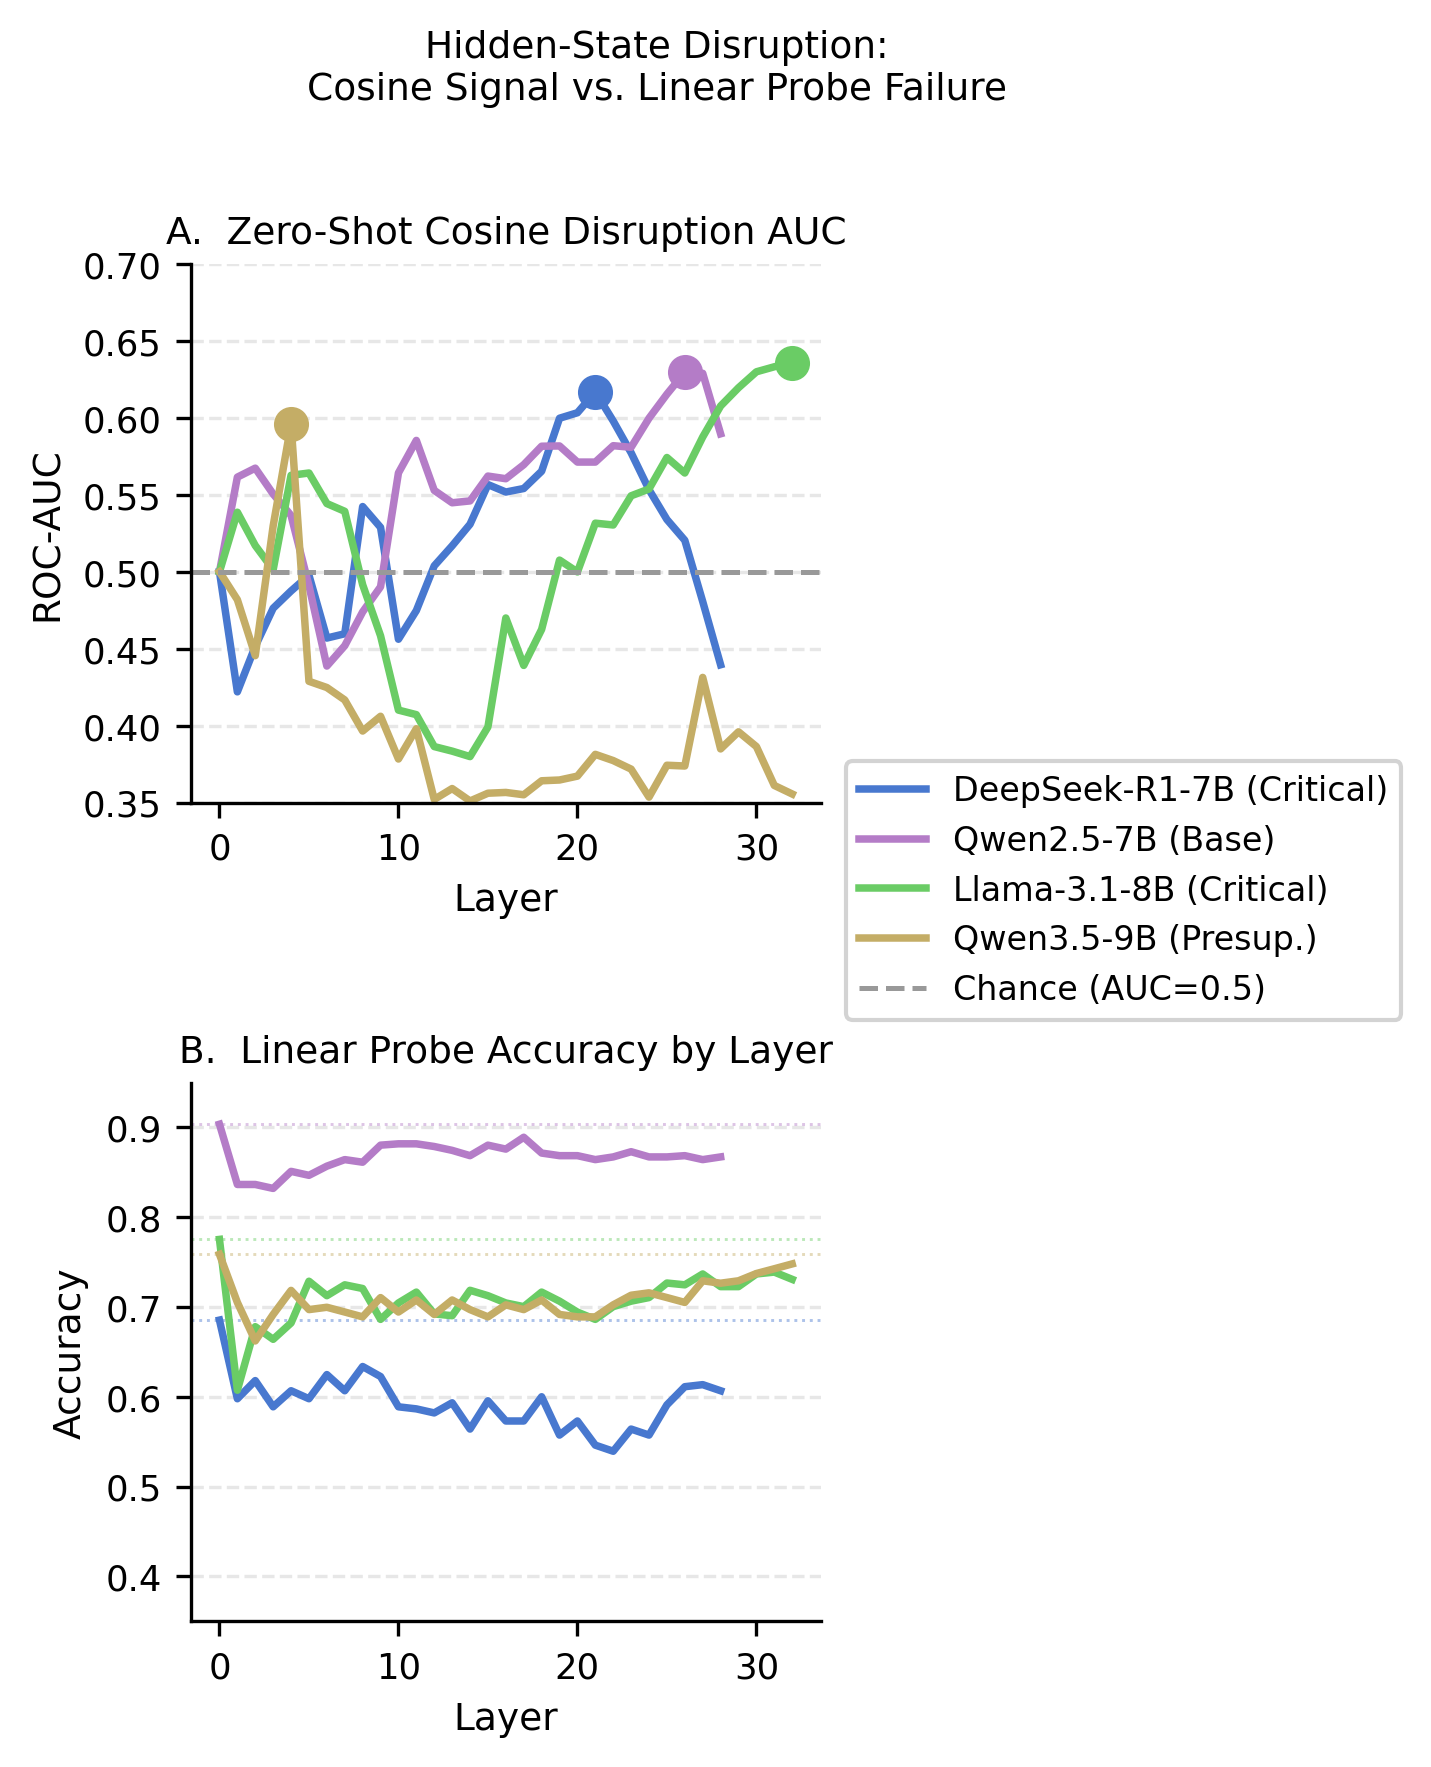
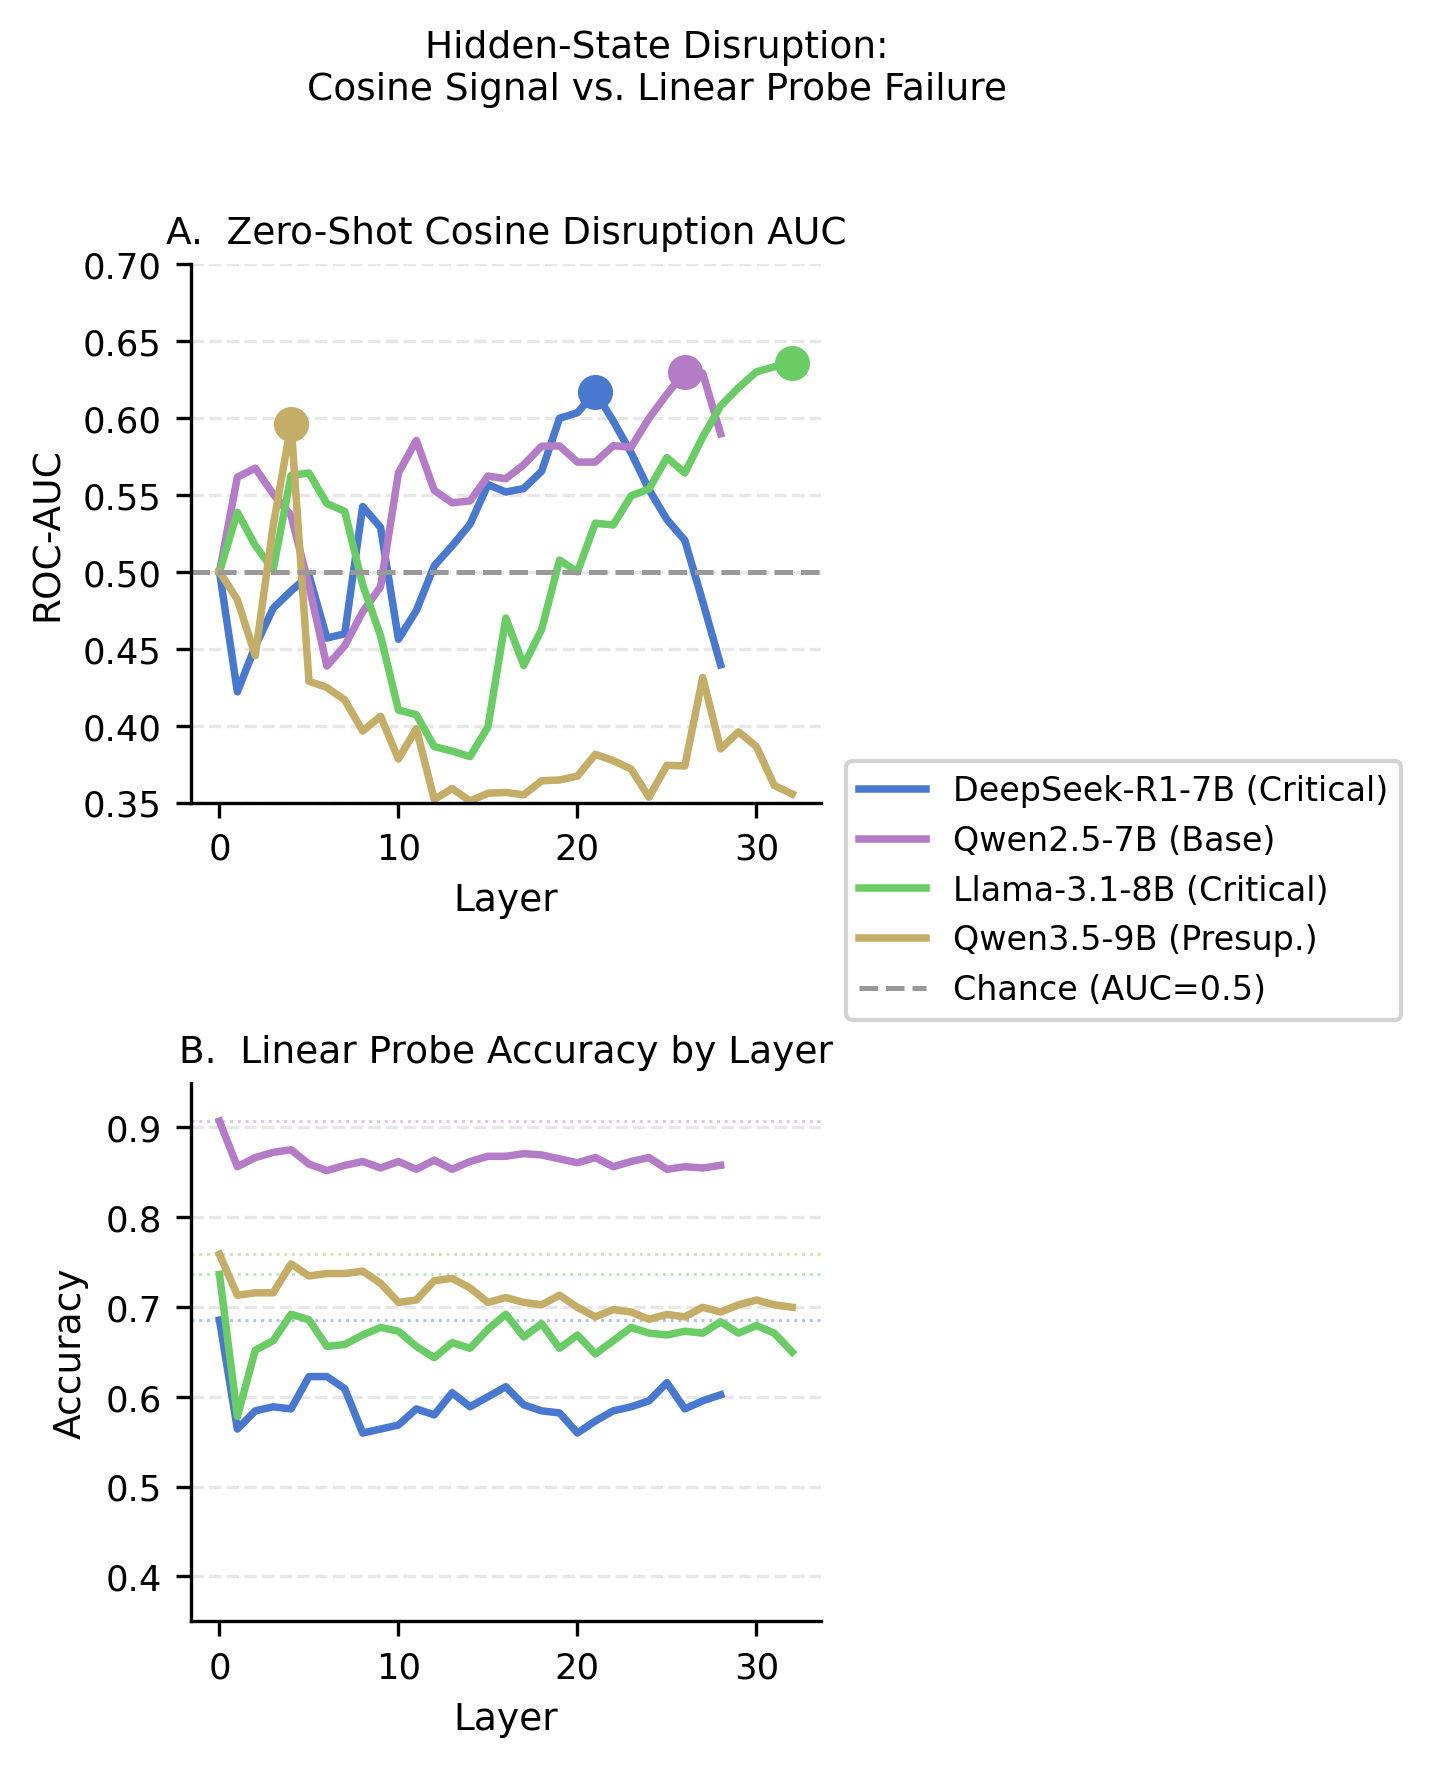
Fix pre-flip task pairing in PCA and layer-sweep figures, align Panel B conditions with Panel A
- plot_preflip_pca.py and plot_layer_sweep.py paired the hidden state at
  turn t with the flip label at turn t (at-flip states); both now use the
  probe semantics from train_probes_v2 (state at t predicts flip at t+1,
  censored after first flip)
- plot_layer_sweep.py BEST_QTYPE now matches the cosine analysis so both
  panels of hidden_state_disruption.png describe the same conditions
- multiturn_auc_robustness.py: remove 0.5 floor on peak AUC so below-chance
  peaks report honestly
- Regenerate preflip_pca.png, layer_sweep(.png/_accuracy.csv),
  hidden_state_disruption.png

Changed region(s): [[0.1537, 0.7159, 0.5535, 0.8404], [0.1537, 0.6225, 0.3997, 0.6848], [0.3997, 0.6225, 0.5227, 0.6848]]

diff --git a/analysis/plot_layer_sweep.py b/analysis/plot_layer_sweep.py
@@ -59,15 +59,18 @@ MODEL_COLORS = {
     "Qwen3.5-9B":     "#C4AD66",
 }
 
+# Matches the cosine-analysis (Panel A) best condition per model so the two
+# panels of the paper figure describe the same data.
 BEST_QTYPE = {
     "DeepSeek-R1-7B": "critical",
-    "Qwen2.5-7B":     "presupposition",
-    "Llama-3.1-8B":   "presupposition",
+    "Qwen2.5-7B":     "base",
+    "Llama-3.1-8B":   "critical",
     "Qwen3.5-9B":     "presupposition",
 }
 
 
 def load_judge_labels(cfg, qtype):
+    """Return {question: [flip_t1, ..., flip_t5]} per-turn judge labels."""
     if not cfg["judge_csv"].exists():
         return None
     df = pd.read_csv(cfg["judge_csv"])
@@ -75,15 +78,12 @@ def load_judge_labels(cfg, qtype):
     df["flip"] = df["judgement"].astype(str).str.lower() == "true"
     labels = {}
     for q, grp in df.groupby("question"):
-        grp = grp.sort_values("turn")
-        first_flip = grp[grp["flip"]]["turn"].min() if grp["flip"].any() else None
-        turn_labels = {}
+        flips = [0] * 5
         for _, row in grp.iterrows():
             t = int(row["turn"])
-            if first_flip is not None and t > first_flip:
-                continue
-            turn_labels[t] = int(row["flip"])
-        labels[q] = turn_labels
+            if 1 <= t <= 5:
+                flips[t - 1] = int(row["flip"])
+        labels[q] = flips
     return labels
 
 
@@ -95,11 +95,17 @@ def load_hs(cfg, qtype):
 
 
 def build_features(hs, judge_labels, layer):
+    """Pre-flip task pairing (mirrors train_probes_v2.build_preflip_dataset):
+    the hidden state at turn t is labeled by whether the model flips at turn
+    t+1; turns after the first flip are censored."""
     X, y, qids = [], [], []
-    for qi, (q, turn_labels) in enumerate(judge_labels.items()):
+    for qi, (q, flips) in enumerate(judge_labels.items()):
         if q not in hs:
             continue
-        for t, label in turn_labels.items():
+        first_flip = next((i for i, v in enumerate(flips) if v), None)
+        for t, label in enumerate(flips):
+            if first_flip is not None and t > first_flip:
+                break
             tensor = hs[q][t]
             if tensor is None:
                 continue
@@ -152,9 +158,9 @@ def main():
             print(f"  {model_name}: missing data, skipping")
             continue
 
-        # chance for this dataset
-        all_y = [label for tl in judge_labels.values() for label in tl.values()]
-        chance = max(np.mean(all_y), 1 - np.mean(all_y))
+        # chance for this dataset (censored pre-flip sample distribution)
+        _, y0, _ = build_features(hs, judge_labels, 0)
+        chance = max(np.mean(y0), 1 - np.mean(y0))
 
         print(f"  {model_name} | {qtype} | {cfg['n_layers']} layers | chance={chance:.3f}")
         for layer in range(cfg["n_layers"]):

diff --git a/analysis/plot_preflip_pca.py b/analysis/plot_preflip_pca.py
@@ -53,6 +53,7 @@ COLORS = {"flip": "#D65F5F", "hold": "#4878CF"}
 
 
 def load_judge_labels(cfg, qtype):
+    """Return {question: [flip_t1, ..., flip_t5]} per-turn judge labels."""
     if not cfg["judge_csv"].exists():
         return None
     df = pd.read_csv(cfg["judge_csv"])
@@ -60,15 +61,12 @@ def load_judge_labels(cfg, qtype):
     df["flip"] = df["judgement"].astype(str).str.lower() == "true"
     labels = {}
     for q, grp in df.groupby("question"):
-        grp = grp.sort_values("turn")
-        first_flip = grp[grp["flip"]]["turn"].min() if grp["flip"].any() else None
-        turn_labels = {}
+        flips = [0] * 5
         for _, row in grp.iterrows():
             t = int(row["turn"])
-            if first_flip is not None and t > first_flip:
-                continue
-            turn_labels[t] = int(row["flip"])
-        labels[q] = turn_labels
+            if 1 <= t <= 5:
+                flips[t - 1] = int(row["flip"])
+        labels[q] = flips
     return labels
 
 
@@ -80,11 +78,17 @@ def load_hs(cfg, qtype):
 
 
 def build_features(hs, judge_labels, layer):
+    """Pre-flip task pairing (mirrors train_probes_v2.build_preflip_dataset):
+    the hidden state at turn t is labeled by whether the model flips at turn
+    t+1; turns after the first flip are censored."""
     X, y = [], []
-    for q, turn_labels in judge_labels.items():
+    for q, flips in judge_labels.items():
         if q not in hs:
             continue
-        for t, label in turn_labels.items():
+        first_flip = next((i for i, v in enumerate(flips) if v), None)
+        for t, label in enumerate(flips):
+            if first_flip is not None and t > first_flip:
+                break
             tensor = hs[q][t]
             if tensor is None:
                 continue

diff --git a/analysis/multiturn_auc_robustness.py b/analysis/multiturn_auc_robustness.py
@@ -118,7 +118,7 @@ def get_vec(hs, q: str, turn: int, layer: int):
 def peak_auc_for_turnpair(hs, flip_data: dict[str, bool],
                            n_layers: int, k: int) -> tuple[float, int]:
     """Return (peak_AUC, best_layer) for cos_sim(T0, Tk) across all layers."""
-    best_auc, best_layer = 0.5, 0
+    best_auc, best_layer = -np.inf, -1
     for layer in range(n_layers):
         sims, labels = [], []
         for q, ever in flip_data.items():
@@ -135,6 +135,8 @@ def peak_auc_for_turnpair(hs, flip_data: dict[str, bool],
             continue
         if auc > best_auc:
             best_auc, best_layer = auc, layer
+    if not np.isfinite(best_auc):
+        return np.nan, -1
     return best_auc, best_layer
 
 
